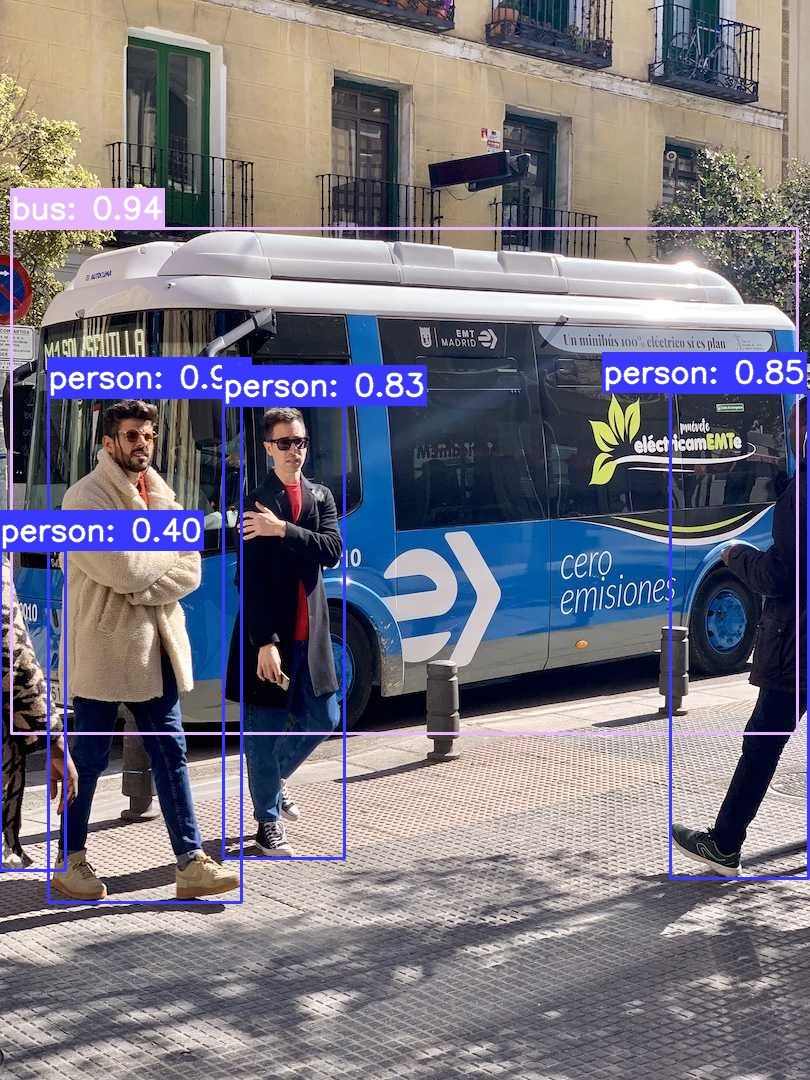
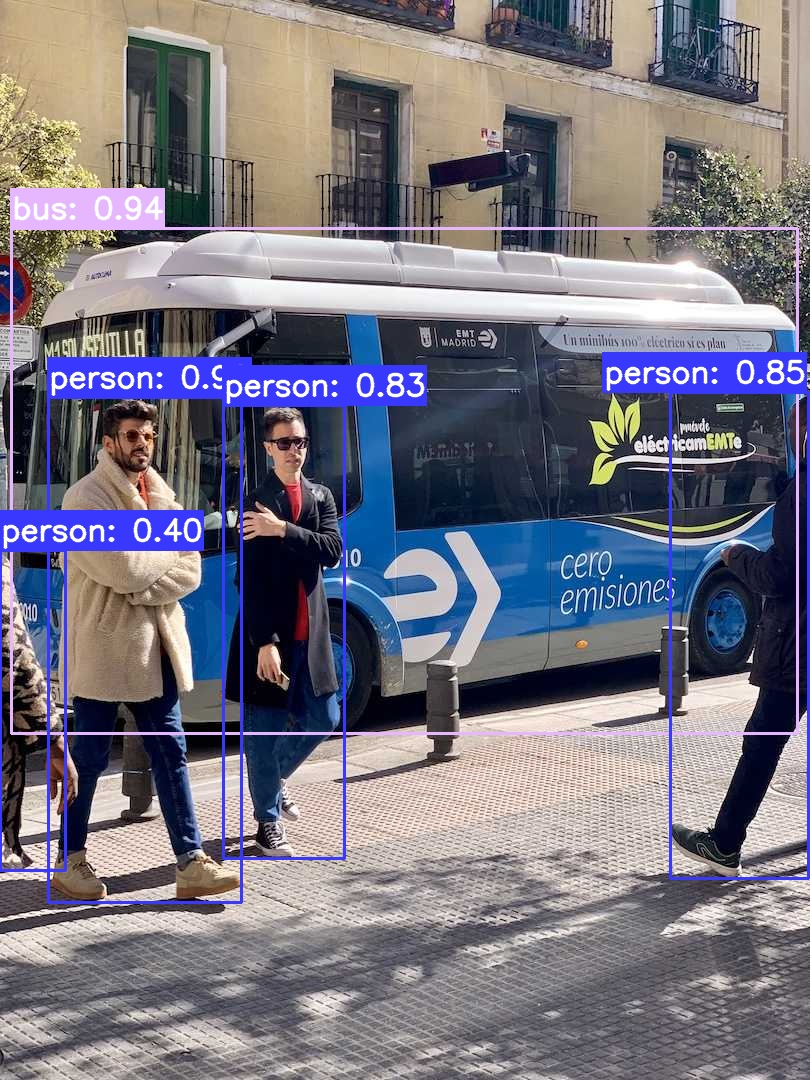
img update

diff --git a/YoloSharpOnnx/Inference/YoloDetectBase.cs b/YoloSharpOnnx/Inference/YoloDetectBase.cs
@@ -283,24 +283,25 @@ namespace YoloSharpOnnx.Inference
             string label = $"{className}: {score:F2}";
             int fontThick = 2;
             var textSize = Cv2.GetTextSize(label, HersheyFonts.HersheySimplex, fontScale, fontThick, out int baseline);
-            var labelTop = new OpenCvSharp.Point(box.X, box.Y - 10);
 
-            if (labelTop.Y < textSize.Height)
-                labelTop.Y = box.Y + 10;
+            int x = box.X;
+            int y = box.Y - 10; ;
+            if (y < textSize.Height)
+                y = box.Y + 10;
 
-            if (labelTop.X + textSize.Width > width)
+            if (x + textSize.Width > width)
             {
-                labelTop.X = labelTop.X - (labelTop.X + textSize.Width - width) - 4;
+                x = x - (x + textSize.Width - width) - 4;
             }
 
             // 标签背景
             Cv2.Rectangle(img,
-                new OpenCvSharp.Point(labelTop.X - 1, labelTop.Y - 8 - textSize.Height),
-                new OpenCvSharp.Point(labelTop.X + textSize.Width, labelTop.Y + baseline),
+                new OpenCvSharp.Point(x - 1, y - 8 - textSize.Height),
+                new OpenCvSharp.Point(x + textSize.Width, y + baseline),
                 color, -1);
 
             // 标签文本
-            Cv2.PutText(img, label, labelTop, HersheyFonts.HersheySimplex, fontScale, Scalar.White, fontThick, LineTypes.AntiAlias);
+            Cv2.PutText(img, label, new Point(x + 1, y), HersheyFonts.HersheySimplex, fontScale, Scalar.White, fontThick, LineTypes.AntiAlias);
         }
     }
 }

diff --git a/YoloSharpOnnx.ConsoleCPU/Program.cs b/YoloSharpOnnx.ConsoleCPU/Program.cs
@@ -14,15 +14,15 @@ namespace YoloSharpOnnx.ConsoleCPU
             Console.WriteLine("Hello, World!");
             //TestInfer();
             //TestBatchInfer();
-            TestInferPerf();
-            //using Mat image = Cv2.ImRead("bus.jpg");
-            //using YoloSharp yolo = new YoloSharp(new ExecutionProviderCPU("yolo11n.onnx"));
+            //TestInferPerf();
+            using Mat image = Cv2.ImRead(@"D:\code\YoloSharpOnnx\YoloSharpOnnx.TestCommon\TestData\Images\bus.jpg");
+            using YoloSharp yolo = new YoloSharp(new ExecutionProviderCPU(@"D:\code\YoloSharpOnnx\YoloSharpOnnx.TestCommon\TestData\Models\yolo11n.onnx"));
 
-            //List<DetectionResult> res = yolo.RunDetect(image);
-            //yolo.DrawDetections(image, res);
-            //Cv2.ImWrite("bus_res.jpg", image);
-            //string printString = YoloUtils.GetResult(res);
-            //Console.WriteLine(printString);
+            List<DetectionResult> res = yolo.RunDetect(image);
+            yolo.DrawDetections(image, res);
+            Cv2.ImWrite("bus_detect.jpg", image);
+            string printString = YoloUtils.GetResult(res);
+            Console.WriteLine(printString);
         }
 
         private static void TestInfer()
